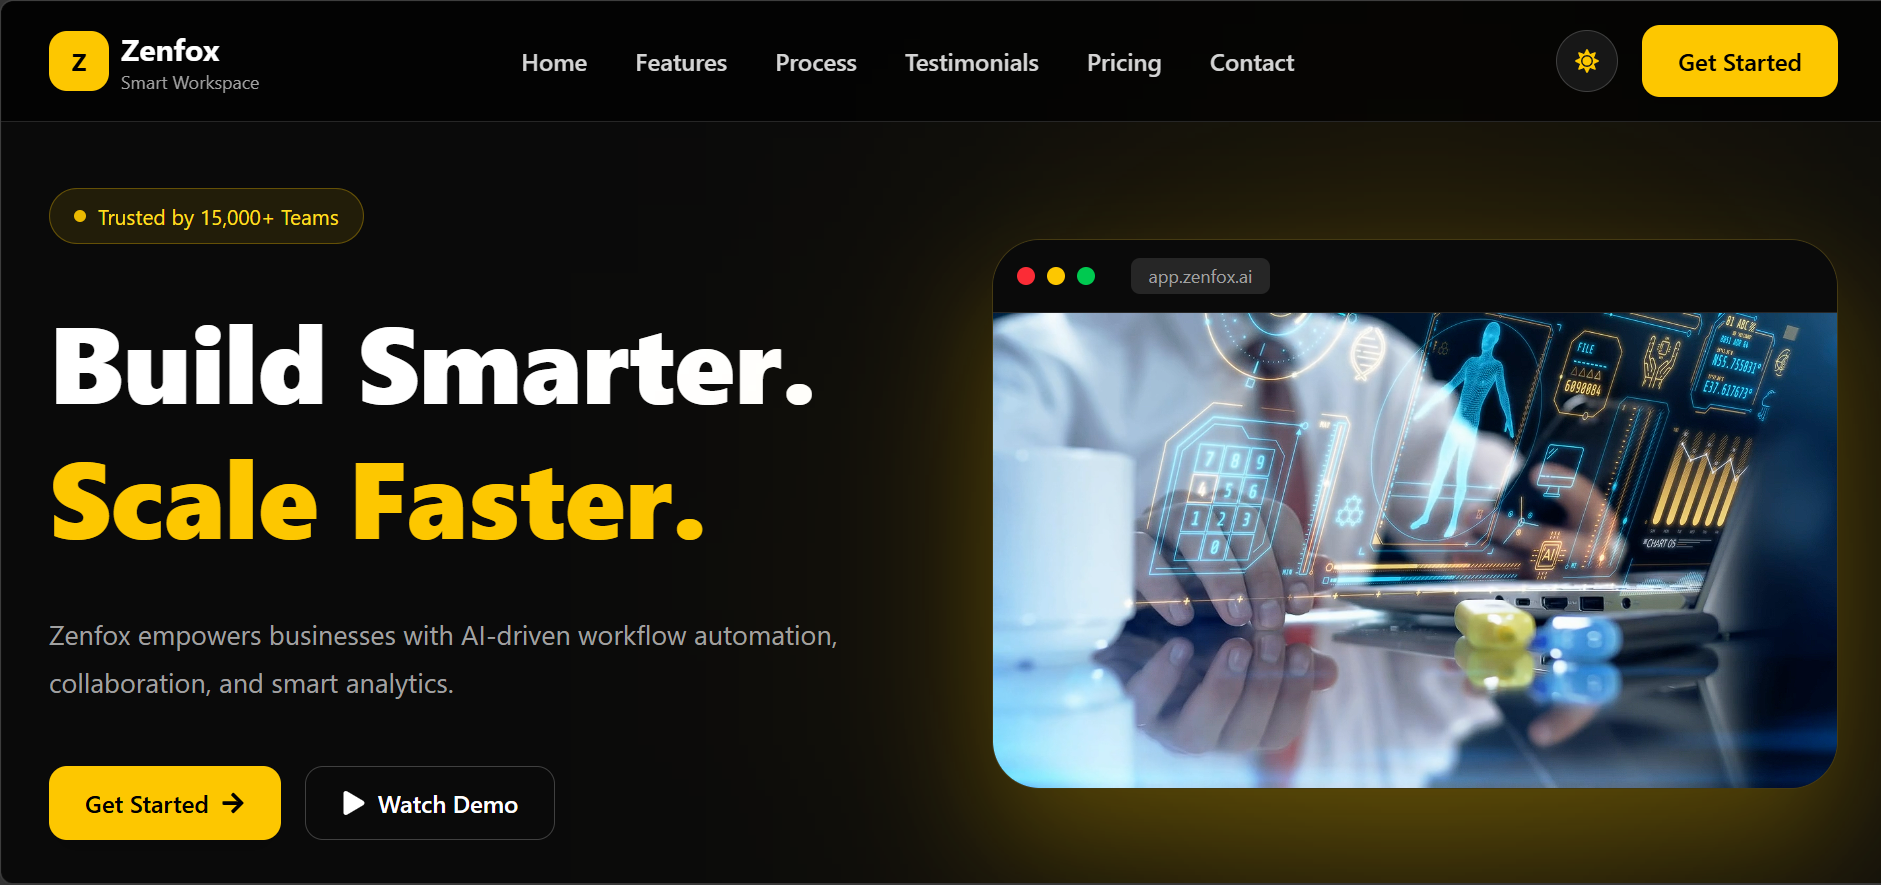
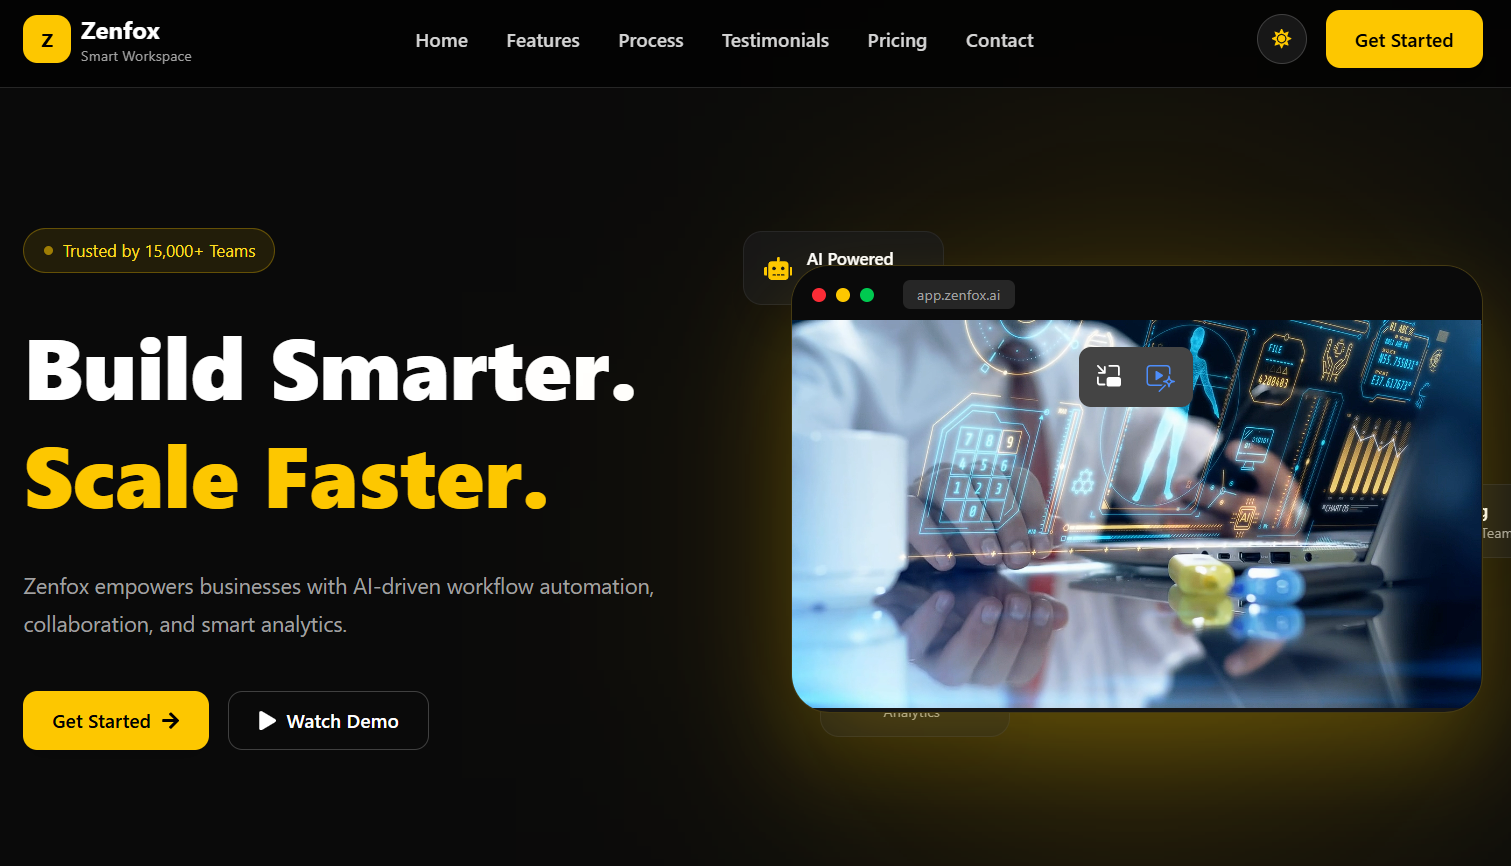
Add Melodify and modify zenfoz images and tech stack

diff --git a/src/data/projects.js b/src/data/projects.js
@@ -17,17 +17,17 @@ export const projects = [
     image: blogImg,
     description:
       "My Frontend Project ",
-    tech: ["React.js"],
+    tech: ["React.js","Tailwind","Framer Motion","React CountUp"],
     github: "https://github.com/aakil-khan/Zenfox",
     live: "https://zenfox-3zwjl0bby-akil-khan-s-projects.vercel.app/",
   },
   {
-    title: "*** ****** *********",
+    title: "Melodify",
     image: portfolioImg,
     description:
-      "####################################.",
-    tech: ["React", "Tailwind", "Framer Motion"],
-    github: "#",
-    live: "#",
+      "Melodify a React Admin Dashboard",
+    tech: ["React", "Tailwind", "Framer Motion","Recharts","Lucide React"],
+    github: "https://github.com/aakil-khan/Melodify",
+    live: "https://melodify-n6hiczbpw-akil-khan-s-projects.vercel.app/",
   },
 ];
